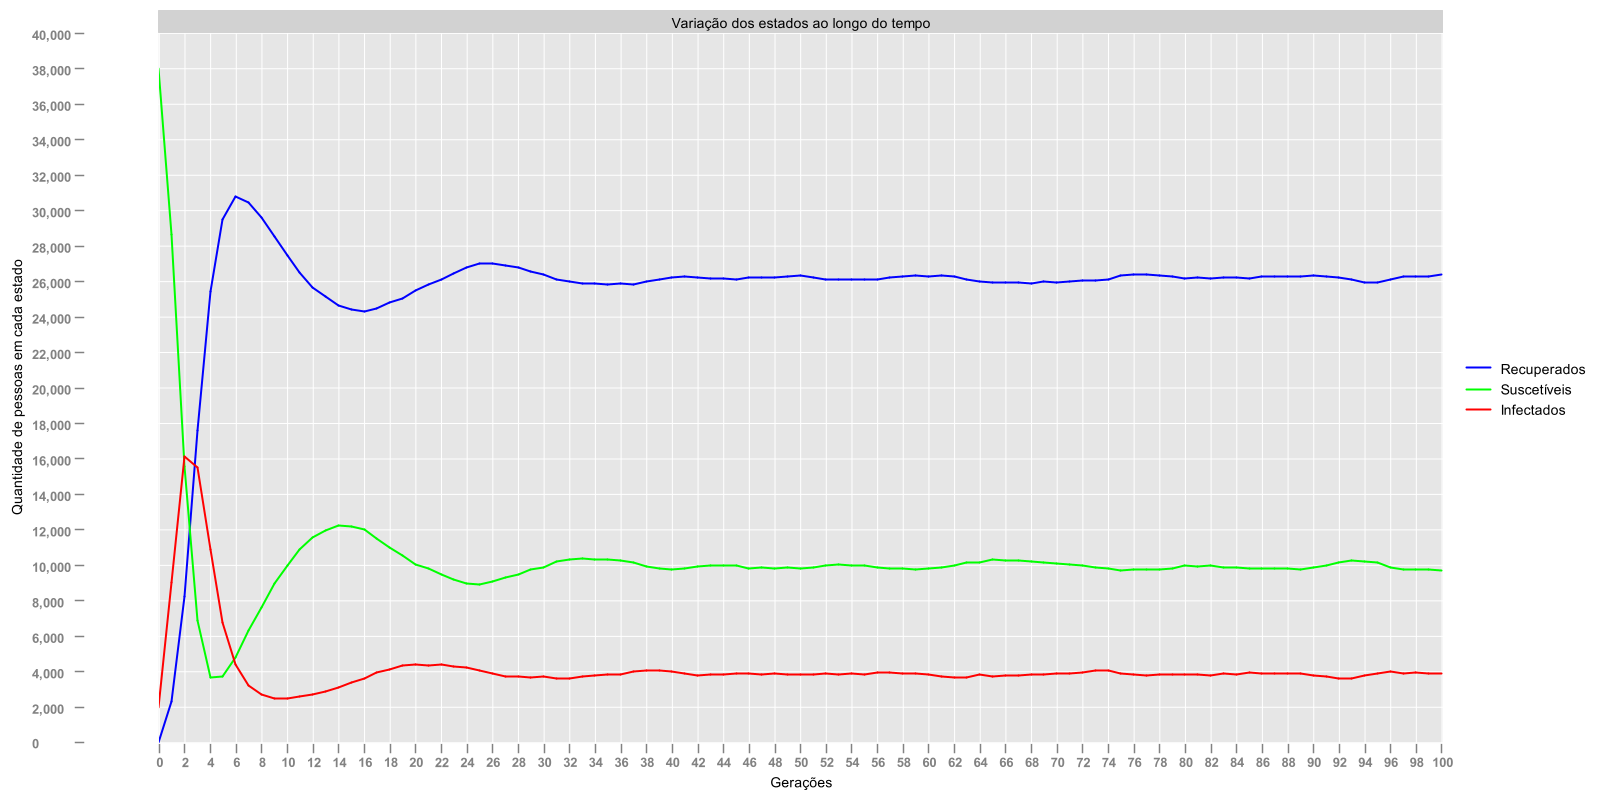
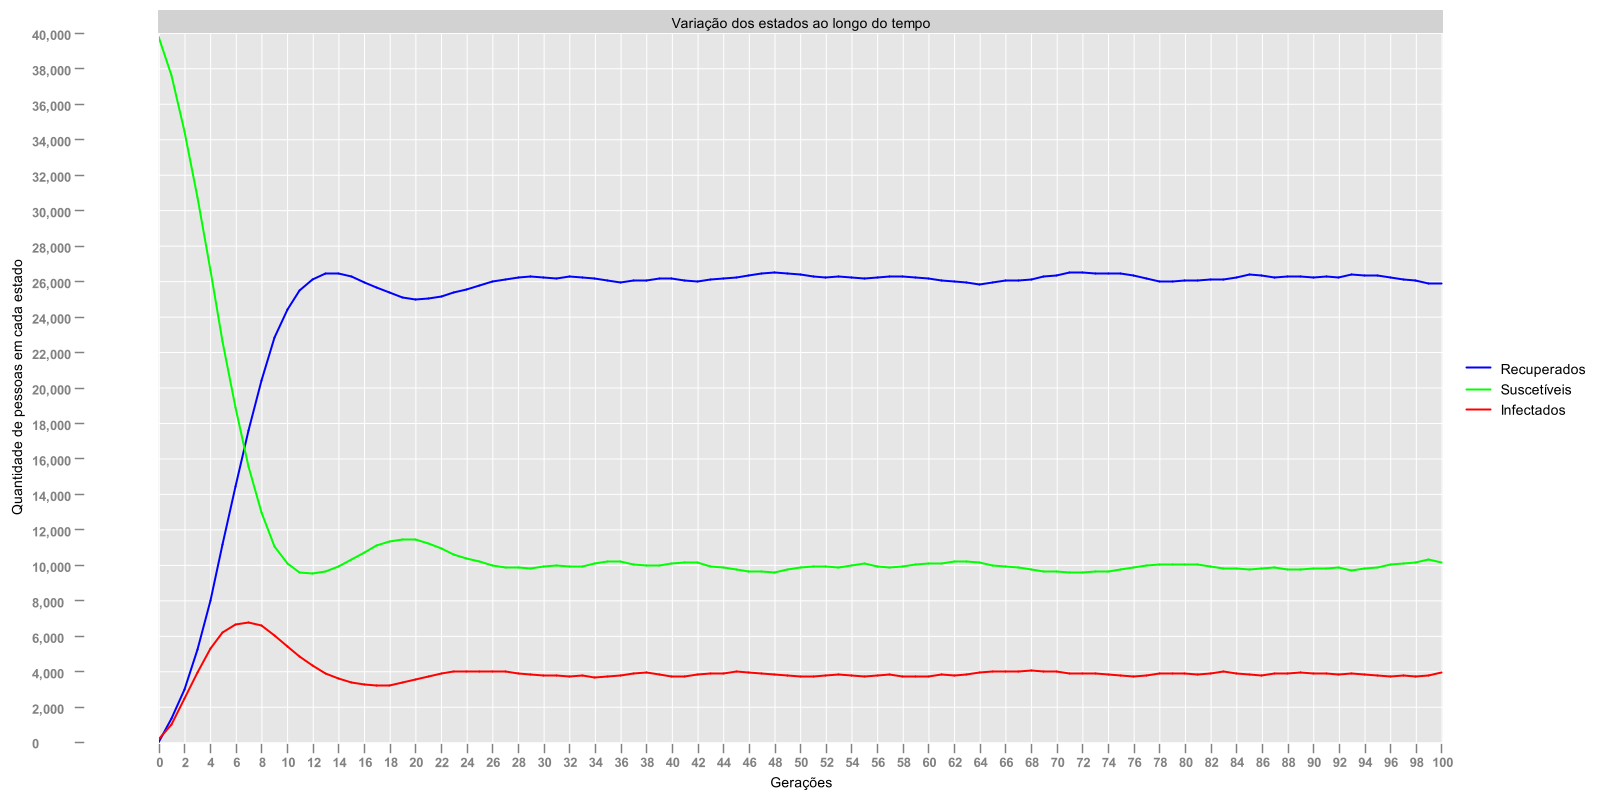
test

diff --git a/cellularautomaton-ds/src/br/edu/ifsp/spo/tads/edda/environment/City.java b/cellularautomaton-ds/src/br/edu/ifsp/spo/tads/edda/environment/City.java
@@ -24,7 +24,7 @@ public class City {
 	}
 
 	private void createPopulation() {
-		double susceptibleRate = 0.95;
+		double susceptibleRate = 0.995;
 		double infectedRate = 1 - susceptibleRate;
 		int infectedAmount = (int) (size * size * infectedRate);
 		if(infectedAmount == 0)

diff --git a/cellularautomaton/src/celularautomaton/Main.java b/cellularautomaton/src/celularautomaton/Main.java
@@ -13,7 +13,7 @@ import org.jfree.data.xy.XYSeriesCollection;
 
 public class Main {
 	public static void main(String[] args) {
-		World a = new World(2);
+		World a = new World(200);
 		int generationsNumber = 100;
 		
 		XYSeries series1 = new XYSeries("Pessoas suscetíveis");

diff --git a/cellularautomaton/src/celularautomaton/World.java b/cellularautomaton/src/celularautomaton/World.java
@@ -5,7 +5,7 @@ import java.util.Random;
 public class World {
 
 	private int size;
-	private double suscetibleRate = 0.95;
+	private double suscetibleRate = 0.995;
 	private double infectedRate = 1 - suscetibleRate;
 	private int infe;
 	private int susc;
